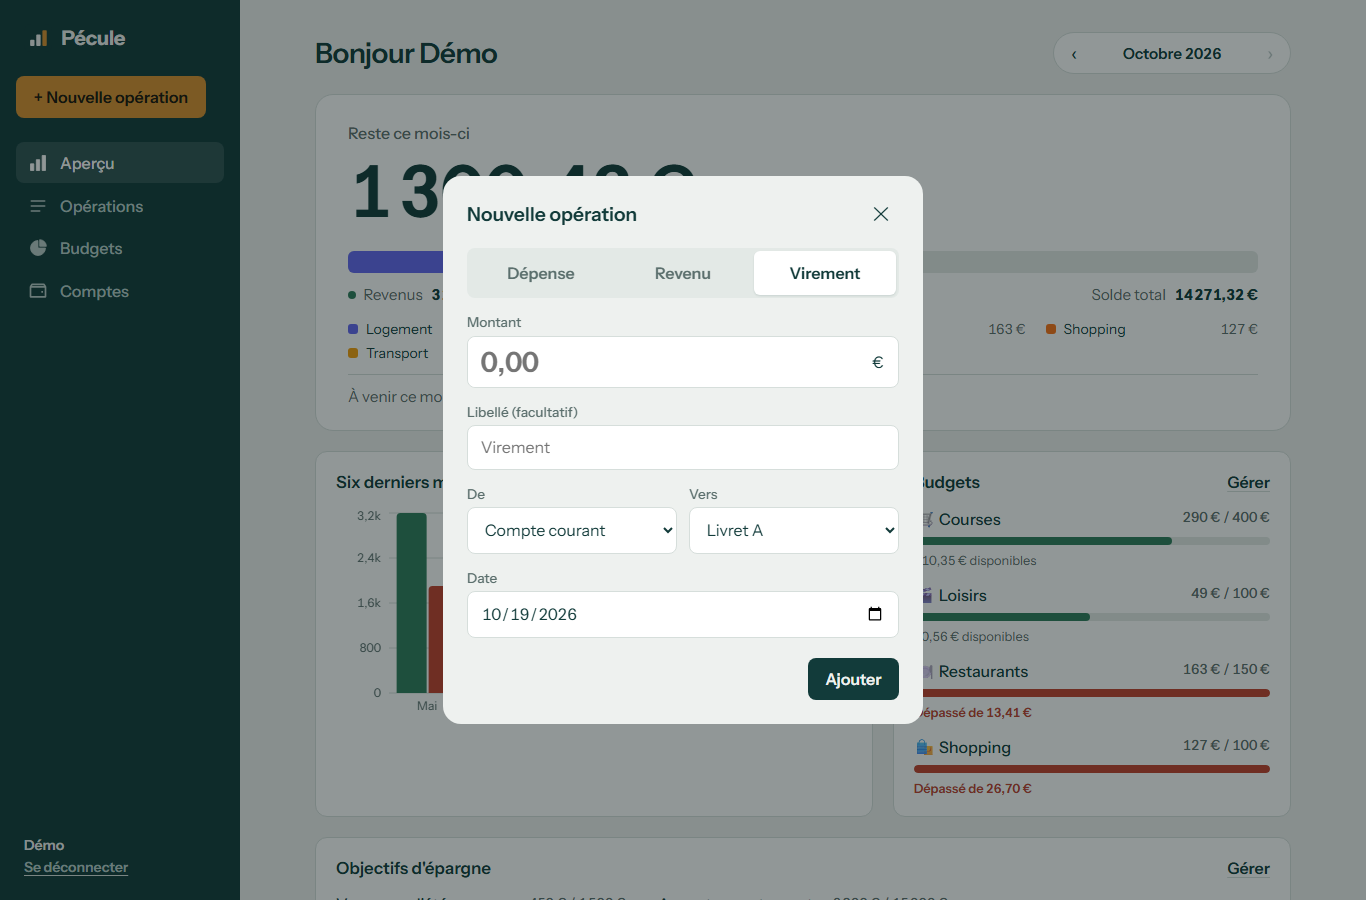
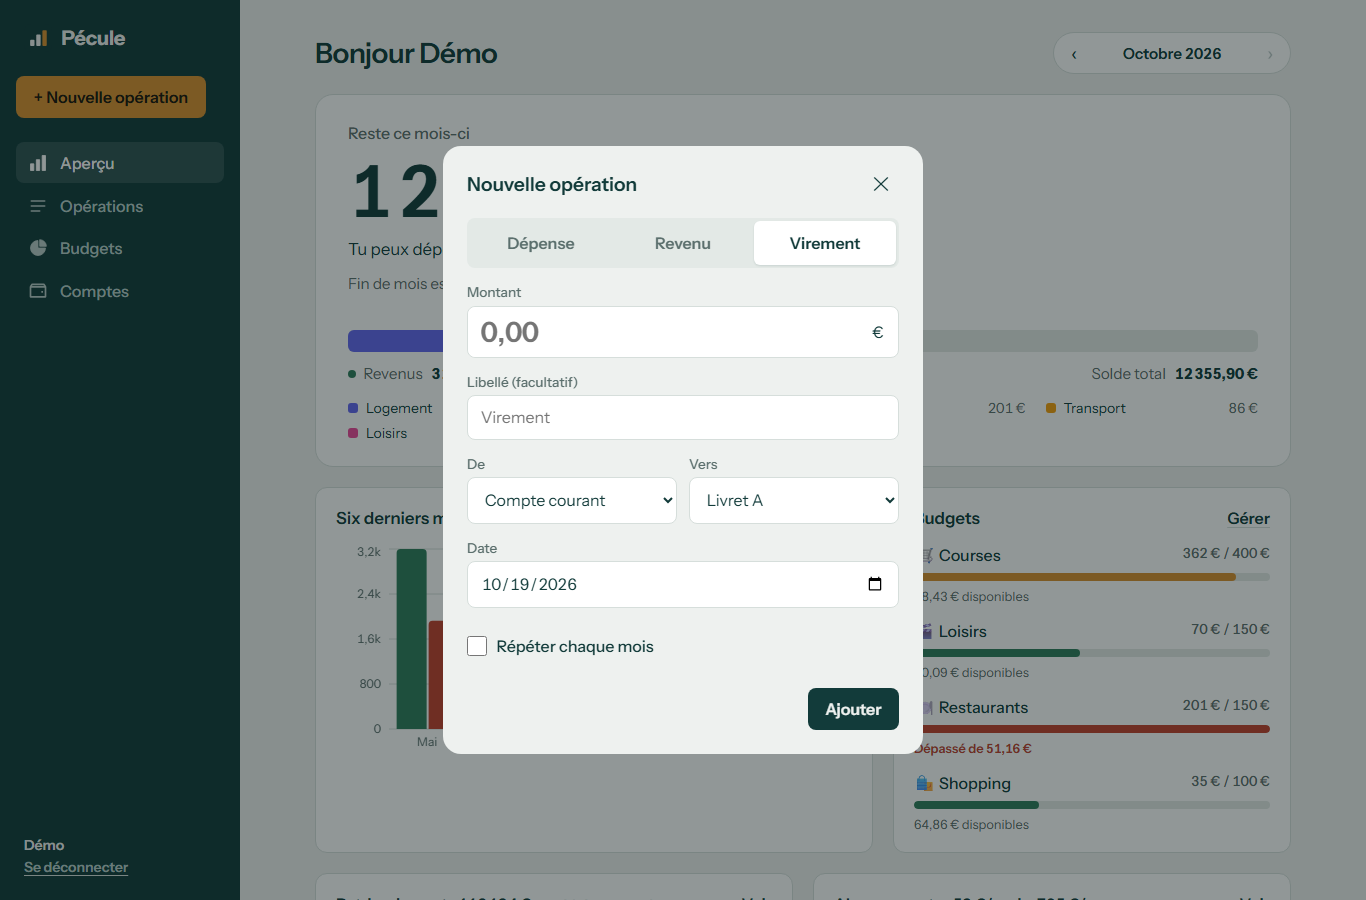
docs: README, captures de tous les écrans et résumé de fin de mission

diff --git a/README.md b/README.md
@@ -1,6 +1,7 @@
 # Pécule — gestion de budget perso
 
-App web de money management : comptes, opérations, virements, opérations récurrentes, import CSV bancaire,
+App web de money management : comptes, opérations, virements, opérations récurrentes, prévision de fin de mois
+(« reste à dépenser par jour »), détection des abonnements, patrimoine net (placements et crédits), import CSV bancaire,
 budgets mensuels, objectifs d'épargne et tableau de bord. Responsive (sidebar sur desktop, barre d'onglets + bouton « + »
 sur mobile) et installable comme une app (PWA).
 
@@ -12,6 +13,11 @@ sur mobile) et installable comme une app (PWA).
 Les montants sont stockés en **centimes** (entiers) côté base pour éviter les erreurs d'arrondi ; l'API parle en euros décimaux.
 Une dépense est un montant négatif, un revenu un montant positif. Un virement = deux lignes liées par un `transfer_id`,
 exclues des revenus, dépenses, budgets et statistiques (mais comptées dans les soldes).
+
+Les comptes sont groupés en trois familles : **liquidités** (courant, épargne, espèces, carte), **placements** (PEA,
+assurance-vie, compte-titres, crypto, immobilier, autre — valorisés à la main) et **dettes** (crédit immo, crédit conso —
+capital restant dû calculé par le tableau d'amortissement). Seules les liquidités comptent dans les revenus, dépenses,
+budgets, prévisions et le « Solde total » de l'Aperçu.
 
 ## Lancer en développement
 
@@ -48,7 +54,10 @@ Vite (port 5180) : ta base de dev n'est jamais touchée.
 
 ## Production
 
-### Avec Docker (recommandé)
+### Avec Docker (non vérifié)
+
+> Docker est hors périmètre de la feuille de route actuelle (« sera traité plus tard »). Le `Dockerfile` et le
+> `docker-compose.yml` sont fournis mais n'ont jamais pu être construits sur la machine de développement.
 
 ```bash
 cp .env.example .env          # puis renseigne JWT_SECRET (openssl rand -hex 32)
@@ -106,19 +115,27 @@ Les erreurs renvoient `{ error: "message en français" }`.
 | GET | `/api/health` | Santé du serveur (Docker, supervision) |
 | POST | `/api/auth/register` · `/api/auth/login` | Inscription / connexion → `{ token, user }` (le login génère les récurrences dues) |
 | GET | `/api/me` | Utilisateur courant |
-| GET/POST/PUT/DELETE | `/api/accounts` | Comptes (le solde est calculé) |
+| GET/POST/PUT/DELETE | `/api/accounts` | Comptes ; `balance` = valeur actuelle selon la famille (`family`), + `invested`, `gain`, `gain_pct` pour un placement |
 | GET/POST/DELETE | `/api/categories` | Catégories (11 créées à l'inscription) |
 | GET/POST/PUT/DELETE | `/api/transactions` | Opérations ; filtres `month`, `from`, `to`, `account_id`, `category_id`, `q`, `limit` (max 2000). Modifier ou supprimer une ligne de virement agit sur les deux |
 | POST | `/api/transactions/bulk` | Import : `{ account_id, rows: [{ date, label, amount, category_id? }] }`, montants signés, 2000 lignes max, tout ou rien |
 | POST | `/api/transfers` | Virement `{ from_account_id, to_account_id, amount, date, label? }` |
 | PUT/DELETE | `/api/transfers/:transfer_id` | Modifier / supprimer un virement (les deux lignes) |
-| GET/POST | `/api/recurring` | Opérations récurrentes `{ account_id, category_id?, amount, type, label, frequency: monthly\|weekly\|yearly, day?, start_date, end_date? }` |
+| GET/POST | `/api/recurring` | Opérations récurrentes `{ account_id, category_id?, amount, type: expense\|income\|transfer, to_account_id? (virement), label, frequency: monthly\|weekly\|yearly, day?, start_date, end_date? }` |
 | PUT | `/api/recurring/:id` | Pause / reprise `{ paused: true\|false }` |
 | DELETE | `/api/recurring/:id` | Supprime la règle (les opérations passées restent) |
 | GET/POST/PUT/DELETE | `/api/goals` | Objectifs d'épargne `{ name, target_amount, target_date?, account_id?, saved? }` + progression et `per_month` calculés |
 | POST | `/api/goals/:id/contributions` | Versement (montant positif) ou retrait (négatif) sur un objectif sans compte lié |
 | GET/POST/DELETE | `/api/budgets?month=YYYY-MM` | Plafonds mensuels + dépensé du mois (hors virements) |
-| GET | `/api/stats?month=YYYY-MM` | Revenus, dépenses, solde, répartition, tendance 6 mois, `upcoming` (récurrences à venir du mois) |
+| GET | `/api/stats?month=YYYY-MM` | Revenus, dépenses, solde des liquidités, répartition, tendance 6 mois, `upcoming` (récurrences à venir du mois) |
+| GET | `/api/forecast?month=YYYY-MM` | Prévision du mois en cours : à venir, rythme des dépenses variables, `projected_end_balance`, `safe_to_spend`, `safe_per_day`, `overspend` ; mois passé → chiffres réels avec `is_past: true` ; mois futur → 400 |
+| GET | `/api/subscriptions` | Abonnements détectés (mensuels / annuels), coût annuel, prochaine date, `price_change` ; totaux mensuel et annuel |
+| POST | `/api/subscriptions/ignore` · `/api/subscriptions/track` | `{ key }` : ignorer un abonnement, ou le suivre comme opération récurrente |
+| GET/POST | `/api/accounts/:id/valuations` | Valorisations d'un placement `{ date, value }` (une par jour, la dernière fait foi) |
+| DELETE | `/api/valuations/:id` | Supprimer une valorisation |
+| GET/PUT | `/api/accounts/:id/loan` | Paramètres d'un crédit `{ principal, annual_rate, duration_months, first_payment_date, insurance_monthly? }` + mensualité, fin, coût |
+| GET | `/api/loans/:id/schedule` | Tableau d'amortissement |
+| GET | `/api/networth?months=24` | Fin de chaque mois : liquidités, placements, dettes, patrimoine net ; variations 1 et 12 mois |
 | GET | `/api/export.csv` | Export de toutes les opérations (format Excel FR, virements marqués « Virement ») |
 
 ## Suivi

diff --git a/PROGRESS.md b/PROGRESS.md
@@ -1,6 +1,27 @@
 # Avancement
 
-> Deuxième feuille de route en cours (prévision, abonnements, patrimoine) : le résumé de fin de mission sera réécrit à la fin.
+## Résumé de fin de mission (2026-10-19, 2e feuille de route)
+
+**Ce qui marche** : les 10 tâches (0 à 9) sont faites. Nouveautés de cette version :
+- **Prévision** : « Tu peux dépenser X €/jour jusqu'au N », fin de mois estimée, détail du calcul. Les virements récurrents
+  ont été ajoutés pour l'épargne prévue.
+- **Abonnements** : page dédiée, détectés depuis les libellés bancaires, alerte de hausse de prix, « suivre comme récurrence ».
+- **Patrimoine net** : placements valorisés, crédits avec tableau d'amortissement, vue sur 24 mois. Placements et crédits
+  sont exclus des stats, des budgets et des prévisions.
+
+Dernière vérification : **76 tests API** (vitest), `tsc -b` et build OK, **32 tests Playwright** (1366×900, 390×844, PWA
+sur le build de prod, tests du parseur CSV), tous verts. Captures de chaque écran (27) dans `docs/screenshots/`.
+
+**Ce qui est bloqué** : rien dans le périmètre. Docker est hors périmètre (tâche 9) : le `Dockerfile` et le
+`docker-compose.yml` de la version précédente sont conservés mais **jamais construits** (Docker absent de la machine).
+
+**3 prochaines évolutions recommandées** :
+1. **Mensualités de crédit ventilées** : générer chaque échéance comme une opération récurrente, avec une part intérêts
+   (dépense) et une part capital (virement vers le compte de dette). Le budget et le patrimoine racontent alors la même histoire.
+2. **Découpage du bundle** (~700 Ko) : charger Recharts, la page Patrimoine et la modale d'import à la demande
+   (`React.lazy`). Le premier affichage sur mobile en profitera.
+3. **Sauvegarde / restauration** : export JSON complet (comptes, valorisations, crédits, règles, objectifs) et
+   sauvegarde planifiée de `money.db`. C'est indispensable avant d'y mettre de vraies données.
 
 ## Feuille de route
 
